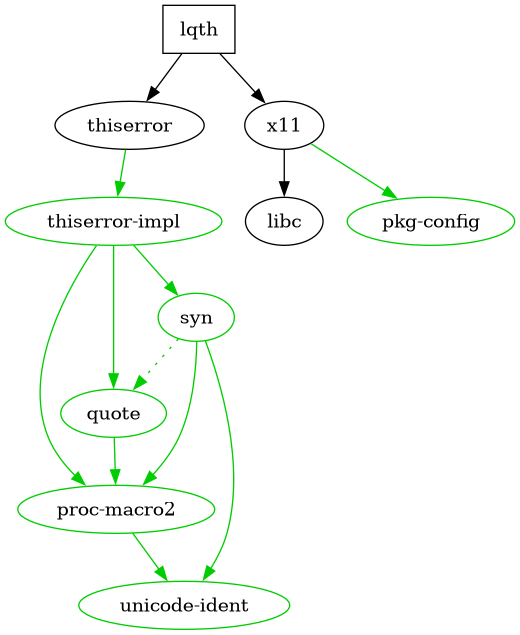
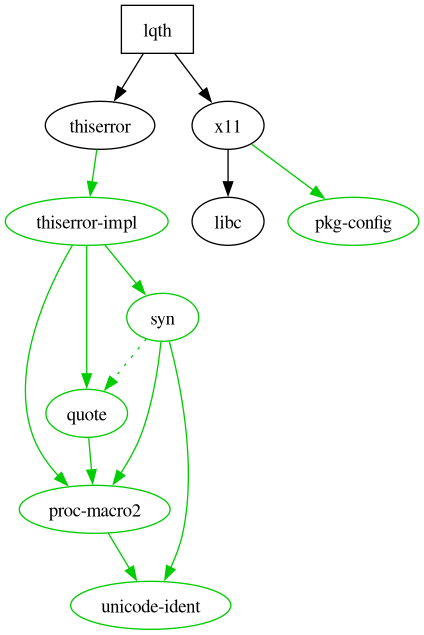
doc(readme): update

diff --git a/README.md b/README.md
@@ -80,4 +80,4 @@ Add lqth to your `flake.nix`:
 
 > Generated with [cargo-depgraph](https://crates.io/crates/cargo-depgraph)
 
-Current version: 0.2.2
+Current version: 0.2.4
